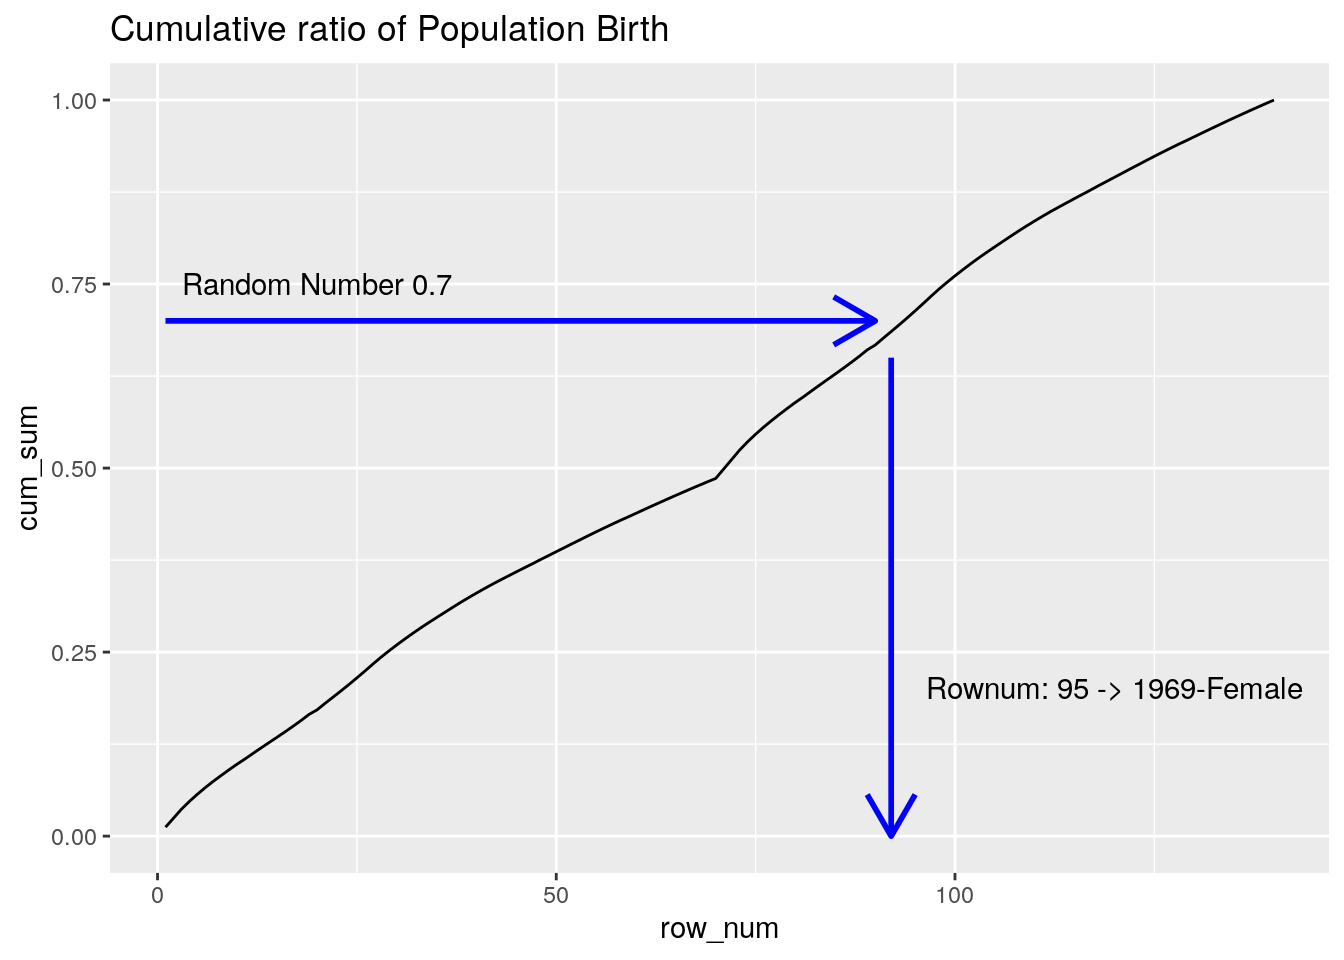
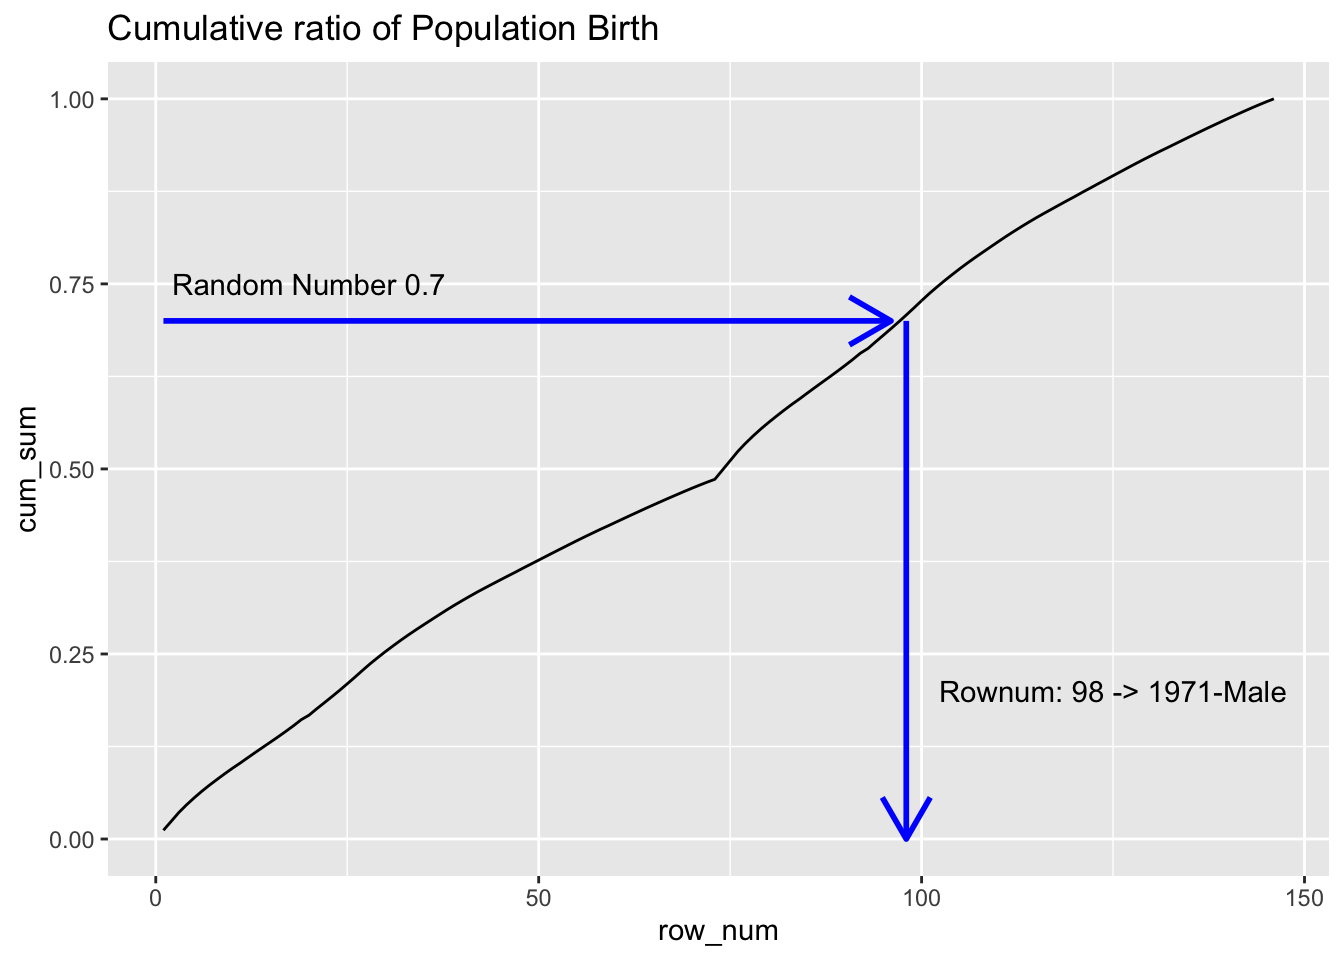
update

diff --git a/docs/01-01.html b/docs/01-01.html
@@ -228,16 +228,21 @@ code span.wa { color: #60a0b0; font-weight: bold; font-style: italic; } /* Warni
 <span id="cb5-4"><a href="01-01.html#cb5-4" aria-hidden="true" tabindex="-1"></a>        <span class="fu">mutate</span>(<span class="at">ratio =</span> Life <span class="sc">/</span> <span class="fu">sum</span>(Life)) <span class="sc">%&gt;%</span></span>
 <span id="cb5-5"><a href="01-01.html#cb5-5" aria-hidden="true" tabindex="-1"></a>        <span class="fu">mutate</span>(<span class="at">cum_sum =</span> <span class="fu">cumsum</span>(ratio))</span>
 <span id="cb5-6"><a href="01-01.html#cb5-6" aria-hidden="true" tabindex="-1"></a></span>
-<span id="cb5-7"><a href="01-01.html#cb5-7" aria-hidden="true" tabindex="-1"></a>dat <span class="sc">%&gt;%</span> head</span></code></pre></div>
-<pre><code>## # A tibble: 6 × 6
-##    Year   Total Sex      Life   ratio cum_sum
-##   &lt;int&gt;   &lt;int&gt; &lt;chr&gt;   &lt;int&gt;   &lt;dbl&gt;   &lt;dbl&gt;
-## 1  1947 2678792 F     1301806 0.0118   0.0118
-## 2  1948 2681624 F     1303060 0.0119   0.0237
-## 3  1949 2696638 F     1316630 0.0120   0.0357
-## 4  1950 2337507 F     1134396 0.0103   0.0460
-## 5  1951 2137689 F     1043048 0.00949  0.0555
-## 6  1952 2005162 F      977101 0.00889  0.0644</code></pre>
+<span id="cb5-7"><a href="01-01.html#cb5-7" aria-hidden="true" tabindex="-1"></a>dat <span class="sc">%&gt;%</span> <span class="fu">head</span>(<span class="dv">100</span>)</span></code></pre></div>
+<pre><code>## # A tibble: 100 × 6
+##     Year   Total Sex      Life   ratio cum_sum
+##    &lt;int&gt;   &lt;int&gt; &lt;chr&gt;   &lt;int&gt;   &lt;dbl&gt;   &lt;dbl&gt;
+##  1  1947 2678792 F     1301806 0.0118   0.0118
+##  2  1948 2681624 F     1303060 0.0119   0.0237
+##  3  1949 2696638 F     1316630 0.0120   0.0357
+##  4  1950 2337507 F     1134396 0.0103   0.0460
+##  5  1951 2137689 F     1043048 0.00949  0.0555
+##  6  1952 2005162 F      977101 0.00889  0.0644
+##  7  1953 1868040 F      910516 0.00829  0.0727
+##  8  1954 1769580 F      858368 0.00781  0.0805
+##  9  1955 1730692 F      841022 0.00765  0.0882
+## 10  1956 1665278 F      809194 0.00736  0.0955
+## # … with 90 more rows</code></pre>
 <div class="sourceCode" id="cb7"><pre class="sourceCode r"><code class="sourceCode r"><span id="cb7-1"><a href="01-01.html#cb7-1" aria-hidden="true" tabindex="-1"></a>dat <span class="sc">%&gt;%</span> </span>
 <span id="cb7-2"><a href="01-01.html#cb7-2" aria-hidden="true" tabindex="-1"></a>        <span class="fu">select</span>(<span class="sc">-</span>Total) <span class="sc">%&gt;%</span> </span>
 <span id="cb7-3"><a href="01-01.html#cb7-3" aria-hidden="true" tabindex="-1"></a>        <span class="fu">write.csv</span>(<span class="st">&quot;./data/ipss_birth.csv&quot;</span>, <span class="at">row.names=</span><span class="cn">FALSE</span>, <span class="at">quote =</span> <span class="cn">FALSE</span>)</span></code></pre></div>
@@ -259,14 +264,14 @@ code span.wa { color: #60a0b0; font-weight: bold; font-style: italic; } /* Warni
 <span id="cb12-3"><a href="01-01.html#cb12-3" aria-hidden="true" tabindex="-1"></a>        <span class="fu">mutate</span>(<span class="at">row_num =</span> <span class="dv">1</span><span class="sc">:</span><span class="fu">nrow</span>(.)) <span class="sc">%&gt;%</span> </span>
 <span id="cb12-4"><a href="01-01.html#cb12-4" aria-hidden="true" tabindex="-1"></a>        <span class="fu">ggplot</span>() <span class="sc">+</span> </span>
 <span id="cb12-5"><a href="01-01.html#cb12-5" aria-hidden="true" tabindex="-1"></a>        <span class="fu">geom_line</span>(<span class="fu">aes</span>(<span class="at">x =</span> row_num, <span class="at">y =</span> cum_sum), <span class="at">stat =</span> <span class="st">&quot;identity&quot;</span>) <span class="sc">+</span></span>
-<span id="cb12-6"><a href="01-01.html#cb12-6" aria-hidden="true" tabindex="-1"></a>        <span class="fu">annotate</span>(<span class="st">&quot;segment&quot;</span>,<span class="at">x=</span><span class="dv">1</span>,<span class="at">xend=</span><span class="dv">90</span>,<span class="at">y=</span><span class="fl">0.7</span>,<span class="at">yend=</span><span class="fl">0.7</span>,<span class="at">colour=</span><span class="st">&quot;blue&quot;</span>,</span>
+<span id="cb12-6"><a href="01-01.html#cb12-6" aria-hidden="true" tabindex="-1"></a>        <span class="fu">annotate</span>(<span class="st">&quot;segment&quot;</span>,<span class="at">x=</span><span class="dv">1</span>,<span class="at">xend=</span><span class="dv">96</span>,<span class="at">y=</span><span class="fl">0.7</span>,<span class="at">yend=</span><span class="fl">0.7</span>,<span class="at">colour=</span><span class="st">&quot;blue&quot;</span>,</span>
 <span id="cb12-7"><a href="01-01.html#cb12-7" aria-hidden="true" tabindex="-1"></a>             <span class="at">size=</span><span class="dv">1</span>, <span class="at">arrow=</span><span class="fu">arrow</span>()) <span class="sc">+</span> </span>
-<span id="cb12-8"><a href="01-01.html#cb12-8" aria-hidden="true" tabindex="-1"></a>        <span class="fu">annotate</span>(<span class="st">&quot;segment&quot;</span>,<span class="at">x=</span><span class="dv">92</span>,<span class="at">xend=</span><span class="dv">92</span>,<span class="at">y=</span><span class="fl">0.65</span>,<span class="at">yend=</span><span class="fl">0.0</span>,<span class="at">colour=</span><span class="st">&quot;blue&quot;</span>,</span>
+<span id="cb12-8"><a href="01-01.html#cb12-8" aria-hidden="true" tabindex="-1"></a>        <span class="fu">annotate</span>(<span class="st">&quot;segment&quot;</span>,<span class="at">x=</span><span class="dv">98</span>,<span class="at">xend=</span><span class="dv">98</span>,<span class="at">y=</span><span class="fl">0.7</span>,<span class="at">yend=</span><span class="fl">0.0</span>,<span class="at">colour=</span><span class="st">&quot;blue&quot;</span>,</span>
 <span id="cb12-9"><a href="01-01.html#cb12-9" aria-hidden="true" tabindex="-1"></a>                    <span class="at">size=</span><span class="dv">1</span>,<span class="at">arrow=</span><span class="fu">arrow</span>()) <span class="sc">+</span> </span>
 <span id="cb12-10"><a href="01-01.html#cb12-10" aria-hidden="true" tabindex="-1"></a>        <span class="fu">annotate</span>(<span class="st">&quot;text&quot;</span>, <span class="at">x=</span><span class="dv">20</span>, <span class="at">y=</span><span class="fl">0.75</span>, <span class="at">parse=</span><span class="cn">TRUE</span>, <span class="at">label=</span><span class="st">&quot;&#39;Random Number 0.7&#39;&quot;</span>) <span class="sc">+</span></span>
-<span id="cb12-11"><a href="01-01.html#cb12-11" aria-hidden="true" tabindex="-1"></a>        <span class="fu">annotate</span>(<span class="st">&quot;text&quot;</span>, <span class="at">x=</span><span class="dv">120</span>, <span class="at">y=</span><span class="fl">0.2</span>, <span class="at">parse=</span><span class="cn">TRUE</span>, <span class="at">label=</span><span class="st">&quot;&#39;Rownum: 95 -&gt; 1969-Female&#39;&quot;</span>) <span class="sc">+</span></span>
+<span id="cb12-11"><a href="01-01.html#cb12-11" aria-hidden="true" tabindex="-1"></a>        <span class="fu">annotate</span>(<span class="st">&quot;text&quot;</span>, <span class="at">x=</span><span class="dv">125</span>, <span class="at">y=</span><span class="fl">0.2</span>, <span class="at">parse=</span><span class="cn">TRUE</span>, <span class="at">label=</span><span class="st">&quot;&#39;Rownum: 98 -&gt; 1971-Male&#39;&quot;</span>) <span class="sc">+</span></span>
 <span id="cb12-12"><a href="01-01.html#cb12-12" aria-hidden="true" tabindex="-1"></a>        <span class="fu">ggtitle</span>(<span class="st">&quot;Cumulative ratio of Population Birth&quot;</span>)</span></code></pre></div>
-<p><img src="python-medical-data_files/figure-html/unnamed-chunk-38-1.png" width="672" /></p>
+<p><img src="python-medical-data_files/figure-html/unnamed-chunk-4-1.png" width="672" /></p>
 <p>これを利用して、出生のシミュレーションができる。</p>
 </div>
 <div id="死亡データの取得と整形" class="section level3" number="2.1.2">
@@ -355,7 +360,7 @@ code span.wa { color: #60a0b0; font-weight: bold; font-style: italic; } /* Warni
 <span id="cb22-6"><a href="01-01.html#cb22-6" aria-hidden="true" tabindex="-1"></a>        <span class="fu">annotate</span>(<span class="st">&quot;text&quot;</span>, <span class="at">x =</span> <span class="dv">10</span>, <span class="at">y =</span> <span class="fl">1.05</span>, <span class="at">label =</span> <span class="st">&#39;Mortarity: 1.0&#39;</span>) <span class="sc">+</span> </span>
 <span id="cb22-7"><a href="01-01.html#cb22-7" aria-hidden="true" tabindex="-1"></a>        <span class="fu">ggtitle</span>(<span class="st">&quot;Mortarity&quot;</span>)</span></code></pre></div>
 <pre><code>## Warning: Removed 2 row(s) containing missing values (geom_path).</code></pre>
-<p><img src="python-medical-data_files/figure-html/unnamed-chunk-44-1.png" width="672" /></p>
+<p><img src="python-medical-data_files/figure-html/unnamed-chunk-10-1.png" width="672" /></p>
 <p>高齢部分が不自然だが、そういうものらしい。100才以上は使わない、として切り捨てる。</p>
 <p>また、年次死亡率を月次死亡率に変換する。</p>
 <p>年次死亡率を<span class="math inline">\(y\)</span>、月次死亡率を<span class="math inline">\(x\)</span>とすると、</p>
